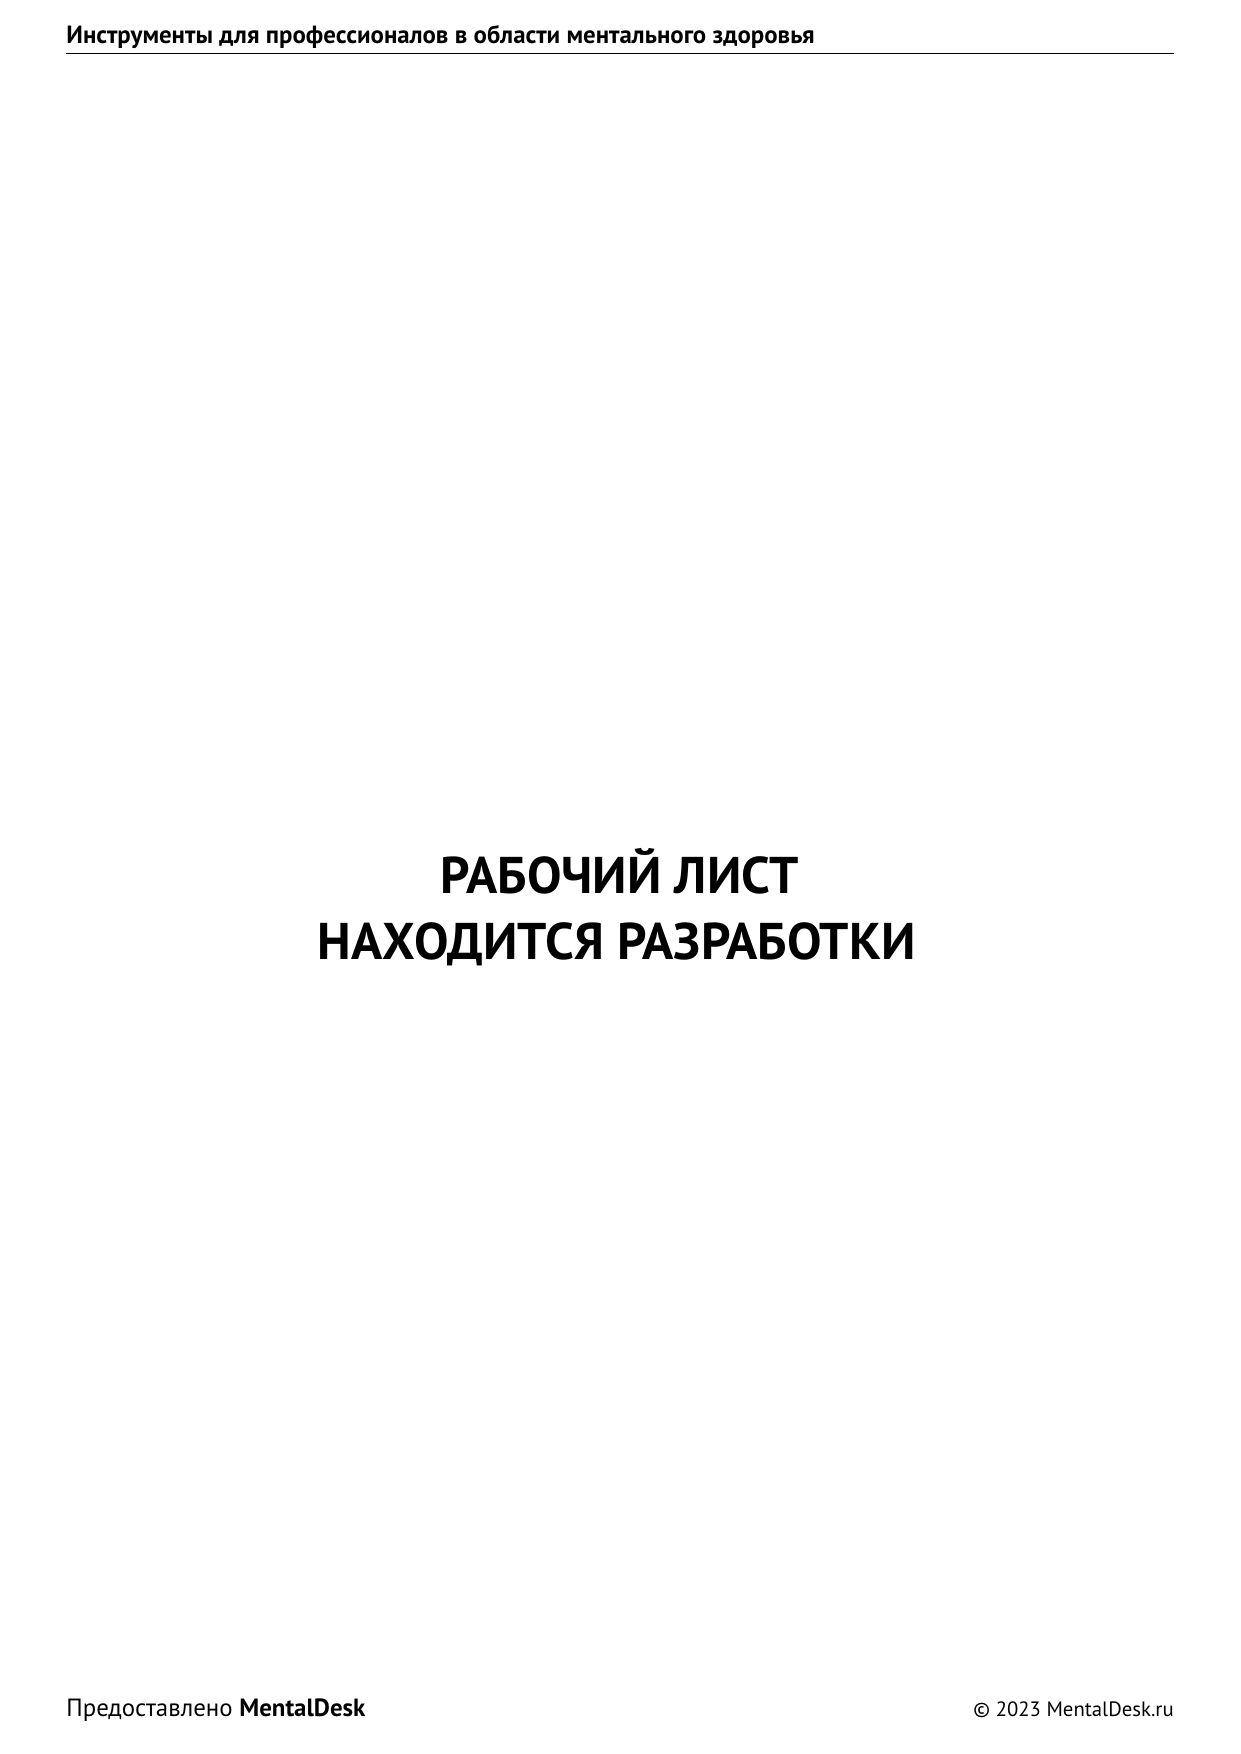
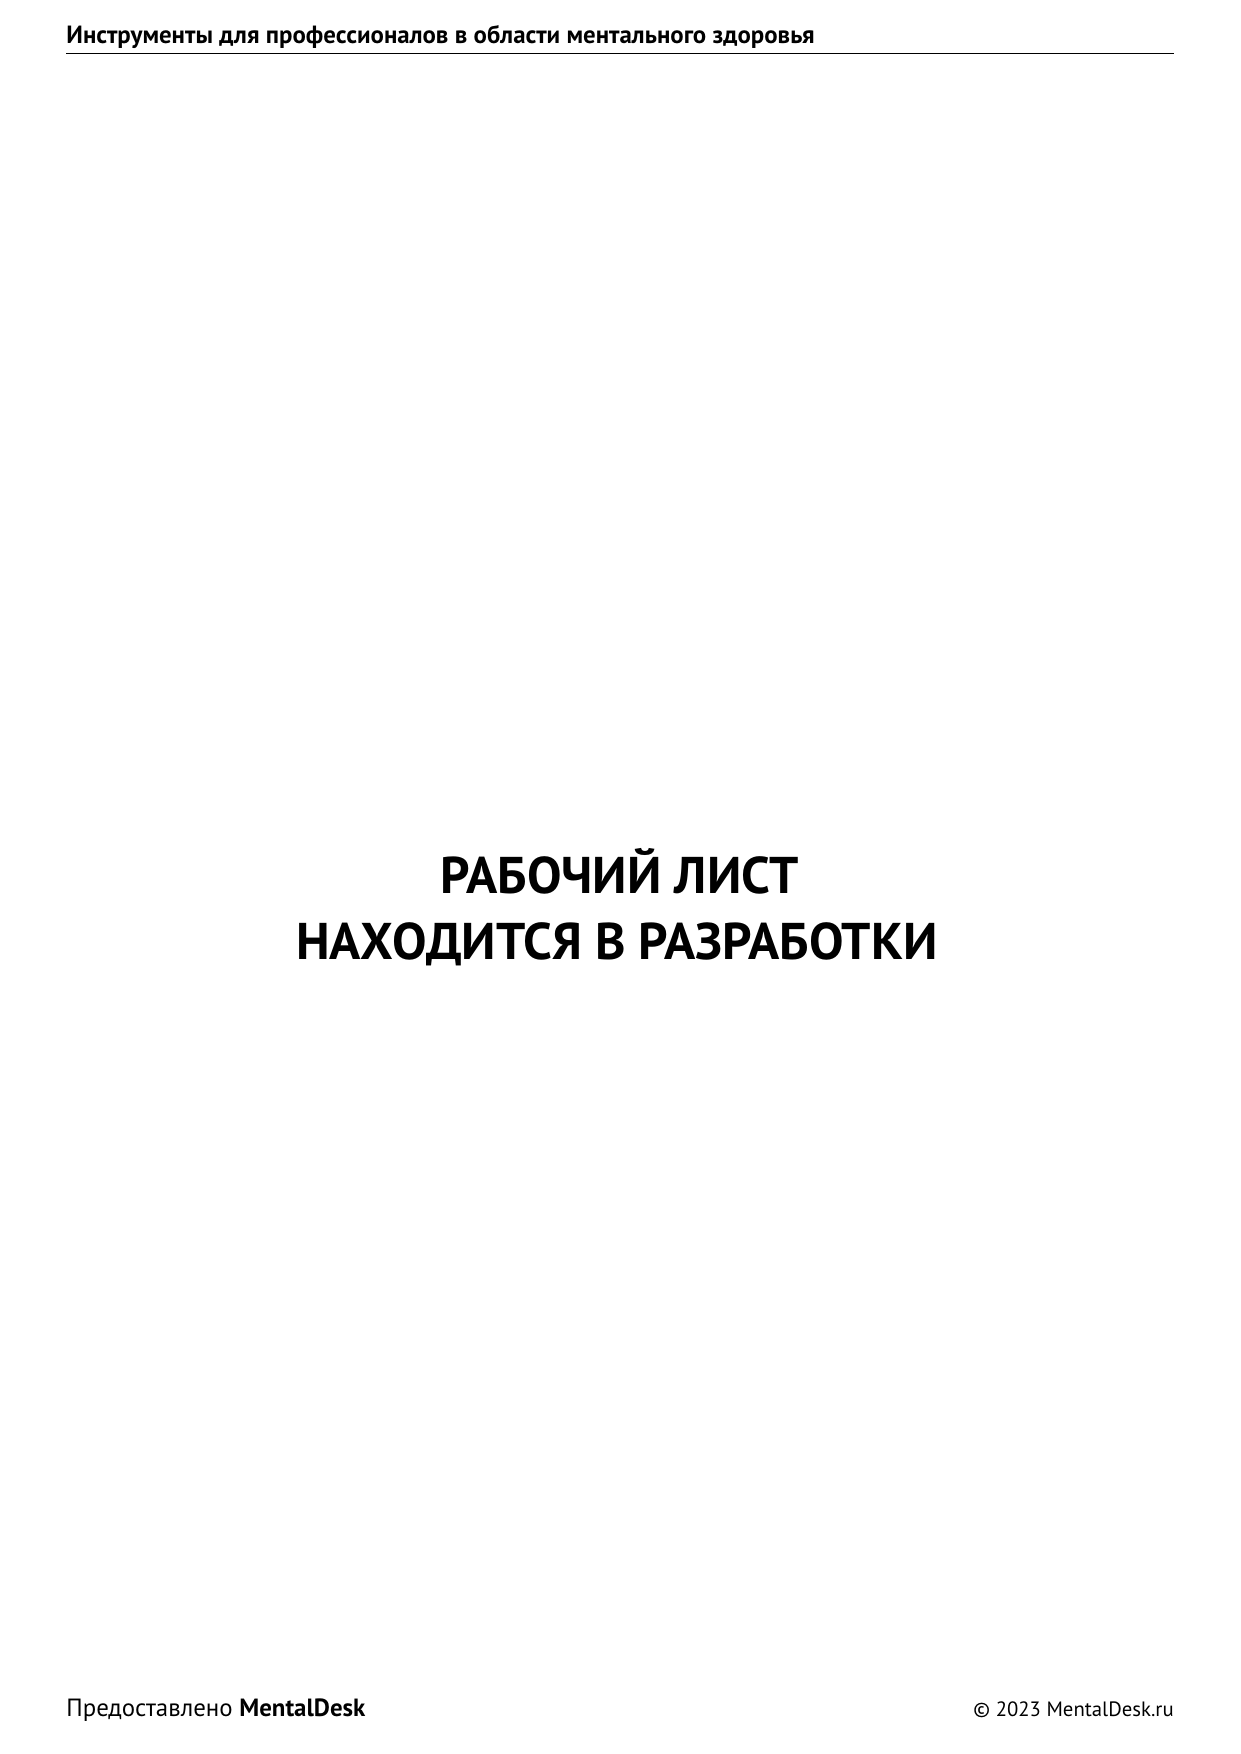
Add isReady to worksheets

Changed region(s): [[0.245, 0.5234, 0.7655, 0.5542]]

diff --git a/src/app/worksheets/page.tsx b/src/app/worksheets/page.tsx
@@ -3,6 +3,7 @@ import fs from 'fs'
 import path from 'path'
 import matter from 'gray-matter';
 import ToolCard from '../components/ToolCard'
+import { srcImg } from '../../lib/worksheets'
 
 const contentDir = path.join(process.cwd(), 'src', 'app', 'content')
 
@@ -14,7 +15,7 @@ export default async function WorksheetsPage() {
     <div className="">
       <h1 className="text-4xl font-bold mb-8">Рабочие Листы</h1>
       <div className="grid grid-cols-1 md:grid-cols-2 gap-8"> 
-        {names?.map((name) => toolCard(name))}
+      {names.map((name) => toolCard(name))}
       </div>
     </div>
   )
@@ -24,7 +25,7 @@ function toolCard(name: string) {
   const worksheetsDir = path.join(contentDir, 'worksheets'); 
   const file = fs.readFileSync(path.join(worksheetsDir, `/${name}/content.mdx`));
   const worksheet = matter(file);
-  const screenshotSrc = `https://raw.githubusercontent.com/mediocrehacker/mentaldesk/main/src/app/content/worksheets/${name}/original-1.png`
+  const screenshotSrc = srcImg(worksheet.data.isReady, name)
   const pdfLink= `/worksheets/${name}/download`;
 
   return (

diff --git a/src/app/search/page.tsx b/src/app/search/page.tsx
@@ -6,6 +6,7 @@ import Fuse from 'fuse.js';
 import Search from '../components/Search'
 import Slogan from '../components/Slogan'
 import ToolCard from '../components/ToolCard'
+import { srcImg } from '../../lib/worksheets'
 
 const worksheetsDir = path.join(process.cwd(), 'src', 'app', 'content', 'worksheets'); 
 const surveysDir = path.join(process.cwd(), 'src', 'app', 'content', 'surveys'); 
@@ -73,13 +74,12 @@ function Worksheet({ worksheet }: any) {
       break;
     }
   }
-  
-  
 }
+
 
 function toolCardWorksheet(worksheet: any) {
   const name = worksheet?.slug;
-  const screenshotSrc = `/worksheets/${name}/screenshot-1.png`;
+  const screenshotSrc = srcImg(worksheet?.isReady, name)
   const pdfLink = `/worksheets/${name}/worksheet.pdf`;
 
   return <ToolCard key={name} name={name} screenshotSrc={screenshotSrc} pdfLink={pdfLink} survey={worksheet.file} kindLabel="Рабочий Лист" kind="worksheets" />;

diff --git a/src/app/worksheets/[slug]/page.tsx b/src/app/worksheets/[slug]/page.tsx
@@ -9,6 +9,7 @@ import remarkParse from 'remark-parse'
 import remarkRehype from 'remark-rehype'
 import rehypeSanitize from 'rehype-sanitize'
 import rehypeStringify from 'rehype-stringify'
+import { srcImg } from '../../../lib/worksheets'
 
 async function toHtml(content: any) {
   const file = await unified()
@@ -37,7 +38,7 @@ export default async function WorksheetPage({ params }: { params: { slug: string
   const file = fs.readFileSync(path.join(worksheetsDir, `${params.slug}/content.mdx`));
   const worksheet = matter(file);
   const content = await toHtml(worksheet.content);
-  const screenshotSrc = `https://raw.githubusercontent.com/mediocrehacker/mentaldesk/main/src/app/content/worksheets/${params.slug}/original-1.png`
+  const screenshotSrc = srcImg(worksheet.data.isReady, params.slug)
   const pdfSrc = `/worksheets/${params.slug}/download`;
 
   return (

diff --git a/src/app/components/FilterBy.tsx b/src/app/components/FilterBy.tsx
@@ -63,7 +63,7 @@ const ThemeNoDescription = (problem: Problem) => {
   return(
     <a className="card border-2 border-base-content/5 card-compact transition-all duration-200 hover:shadow hover:-translate-y-1 h-[150px]" href={src}>
       <div className="card-body flex justify-center text-center">
-        <span className="text-lg">{problem.name}</span>
+        <span className="sm:text-sm md:text-lg ">{problem.name}</span>
       </div>
     </a>
   )

diff --git a/src/lib/worksheets.tsx b/src/lib/worksheets.tsx
@@ -1,0 +1,7 @@
+export function srcImg(isReady: boolean | undefined, slug: string) {
+  if (isReady) {
+    return `https://raw.githubusercontent.com/mediocrehacker/mentaldesk/main/src/app/content/worksheets/${slug}/original-1.png`
+  } else {
+    return "https://raw.githubusercontent.com/mediocrehacker/mentaldesk/main/public/worksheet_work_in_progress.png"
+  }
+}

diff --git a/src/app/content/shared/worksheet_work_in_progress.tex b/src/app/content/shared/worksheet_work_in_progress.tex
@@ -1,0 +1,15 @@
+\documentclass{survey}
+
+\usepackage{tcolorbox}
+\usepackage{tikz}
+\fancyhead[L]{\textbf{Инструменты для профессионалов в области ментального
+    здоровья}}
+
+
+\begin{document}
+\vspace*{\fill}
+\center{\textbf{\Huge РАБОЧИЙ ЛИСТ}} \\
+\center{\textbf{\Huge НАХОДИТСЯ В РАЗРАБОТКИ}}
+\vspace*{\fill}
+%
+\end{document}
